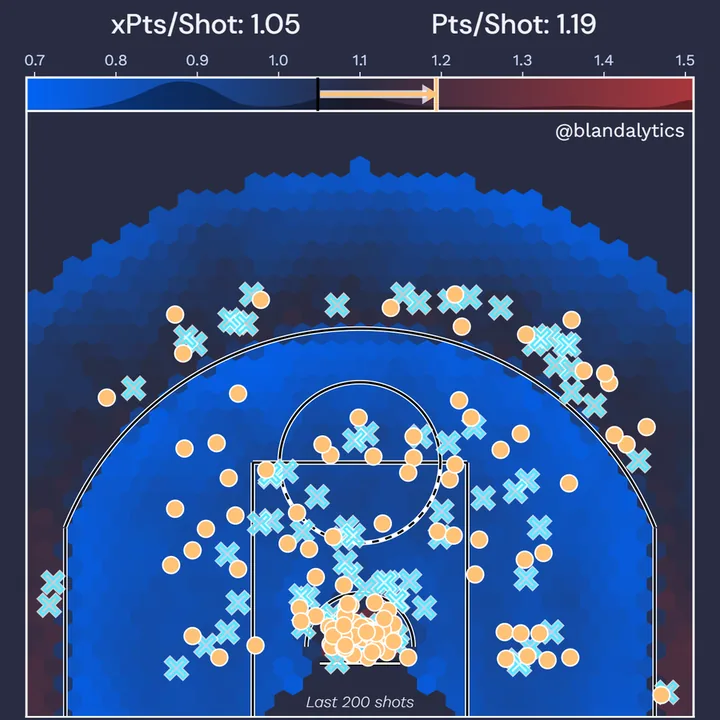
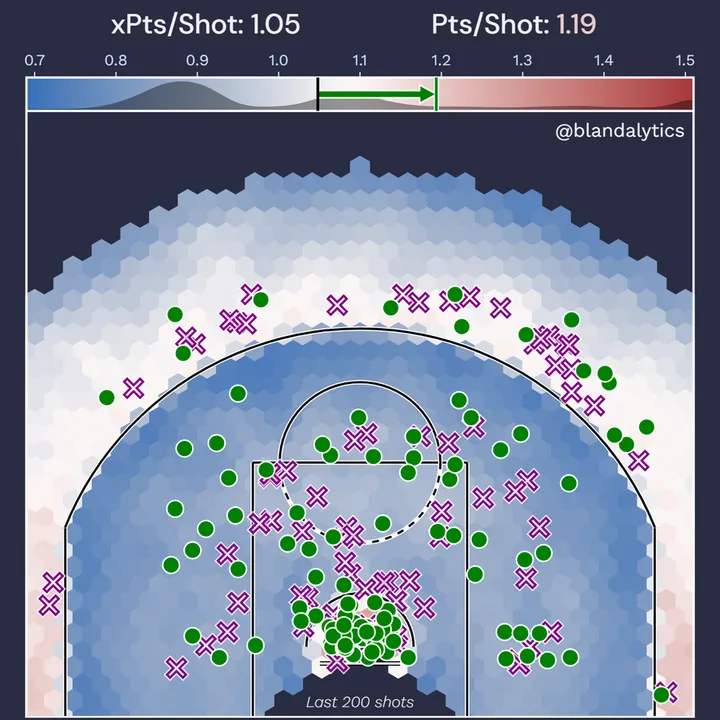
NBA Shot Charts: the app's own colours, an outlined arrow, rounded waterfall caps
The figures go back to the Streamlit app's colours: green makes and gains, purple misses and
losses, the court and its scale in seaborn's vlag (the 256 colours xfg_grid.json carries, looked
up as matplotlib does), white value tags, and a purple-white-green value-added scatter. The
leaderboards drop their signed colours, as the app's tables have none. #296's colorbar placement
on the sidelines stays.

- The colorbar's arrow is one outlined shape (a white edge under its fill), its point on the
  Pts/Shot line's near edge.
- The xPts/Shot and Pts/Shot values take the scale's colour at their value.
- Waterfall bars are rounded where they end and square where they start, as Model Drilldown's are.

figure.js and app.js go to v3 and scatter.js to v2; the homepage tile is regrabbed (?v=3).

diff --git a/nba-shot-charts/figure.js b/nba-shot-charts/figure.js
@@ -1,35 +1,30 @@
 // NBA Shot Charts: the app's scoring summary figure (shot_summary() in nba_shot_chart.py),
 // drawn on a canvas in the figure's own 1400 x 800 layout (the app's 14 x 8 in at 100 dpi),
-// in PLPD colours: amber where a player added points, cyan where they gave some back, the
-// xPTS court in the heat cell's blue and red, through the figure's background at the league average.
+// in the app's colours: green where a player made shots and added points, purple where they
+// missed and gave some back, the xPTS court in seaborn's vlag.
 
 import { SEASON_SHOT_LIMIT, density } from "./model.js?v=1";
 
 export const W = 1400, H = 800;
 
 const C = {
-  bg: "#292c42", ink: "#f0f1f5", nav: "#cbd7fd", amber: "#ffc277", cyan: "#55e8ff", navy: "#13152a",
+  bg: "#292c42", ink: "#f0f1f5", nav: "#cbd7fd",
+  green: "#008000", purple: "#800080",   // matplotlib's "green" and "purple", as the app names them
   line: "#000000", outline: "#ffffff",
 };
 const DISPLAY = '"DM Sans", system-ui, sans-serif';
 const TEXT = '"Work Sans", system-ui, sans-serif';
 
-// the PLPD heat cell's coldest and hottest, through the figure's background (not white) at the
-// midpoint, so an average spot sinks into the card; read continuously over the app's CenteredNorm(1.09, 0.42)
-const HEAT = ["#0066ff", C.bg, "#a9363b"].map(hex);
+// The app's cmap="vlag" over its CenteredNorm(1.09, 0.42): xfg_grid.json carries the 256 colours,
+// looked up as matplotlib does (no blending between them)
 const NORM = { lo: 1.09 - 0.42, hi: 1.09 + 0.42 };
 const BAR = { lo: 0.69, hi: 1.51 };   // the colorbar's span, cb.ax.set(xlim=(0.69, 1.51))
 
-function hex(h) {
-  const n = parseInt(h.slice(1), 16);
-  return [(n >> 16) & 255, (n >> 8) & 255, n & 255];
-}
-
-export function heat(v) {
-  const t = Math.min(Math.max((v - NORM.lo) / (NORM.hi - NORM.lo), 0), 1) * (HEAT.length - 1);
-  const i = Math.min(Math.floor(t), HEAT.length - 2), f = t - i;
-  const [a, b] = [HEAT[i], HEAT[i + 1]];
-  return `rgb(${a.map((x, k) => Math.round(x + (b[k] - x) * f)).join(",")})`;
+function colormap(cmap) {
+  return (v) => {
+    const t = (v - NORM.lo) / (NORM.hi - NORM.lo);
+    return cmap[Math.min(cmap.length - 1, Math.max(0, Math.floor(t * cmap.length)))];
+  };
 }
 
 // ---- layout ------------------------------------------------------------------------------
@@ -62,8 +57,9 @@ export function draw(canvas, sum, grid, { scale = 2, title } = {}) {
   ctx.fillRect(0, 0, W, H);
 
   text(ctx, title, W * 0.51, 46, { font: `700 33px ${DISPLAY}`, align: "center" });
-  court(ctx, sum, grid);
-  colorbar(ctx, sum);
+  const heat = colormap(grid.cmap);
+  court(ctx, sum, grid, heat);
+  colorbar(ctx, sum, heat);
   waterfall(ctx, sum);
 }
 
@@ -75,7 +71,7 @@ function text(ctx, s, x, y, { font = `400 17px ${TEXT}`, color = C.ink, align = 
   ctx.fillText(s, x, y);
 }
 
-function court(ctx, sum, grid) {
+function court(ctx, sum, grid, heat) {
   ctx.save();
   ctx.beginPath();
   ctx.rect(COURT.x0, COURT.top, COURT.w, COURT.h);
@@ -157,7 +153,7 @@ function courtLines(ctx) {
   ctx.setLineDash([]);
 }
 
-// misses as an open X (white under cyan), makes as an amber dot with a white edge
+// misses as an open X (white under purple), makes as a green dot with a white edge
 function shots(ctx, marked) {
   const xPath = (x, y, r) => {
     const t = r * 0.32;   // matplotlib's "X": a filled cross, drawn here by its outline
@@ -171,18 +167,18 @@ function shots(ctx, marked) {
     if (s.made) continue;
     xPath(cx(s.x), cy(s.y), 8.5);
     ctx.globalAlpha = 0.75; ctx.strokeStyle = C.outline; ctx.lineWidth = 4.5; ctx.stroke();
-    ctx.globalAlpha = 1; ctx.strokeStyle = C.cyan; ctx.lineWidth = 2; ctx.stroke();
+    ctx.globalAlpha = 1; ctx.strokeStyle = C.purple; ctx.lineWidth = 2; ctx.stroke();
   }
   for (const s of marked) {
     if (!s.made) continue;
     ctx.beginPath();
     ctx.arc(cx(s.x), cy(s.y), 7.5, 0, Math.PI * 2);
-    ctx.fillStyle = C.amber; ctx.fill();
+    ctx.fillStyle = C.green; ctx.fill();
     ctx.strokeStyle = C.outline; ctx.lineWidth = 1.4; ctx.stroke();
   }
 }
 
-function colorbar(ctx, sum) {
+function colorbar(ctx, sum, heat) {
   const { top, h } = CB;
   for (let px = 0; px < CB.w; px++) {
     ctx.fillStyle = heat(BAR.lo + ((px + 0.5) / CB.w) * (BAR.hi - BAR.lo));
@@ -216,38 +212,60 @@ function colorbar(ctx, sum) {
   const { expected, actual } = sum;
   const clip = (v) => Math.min(Math.max(v, BAR.lo), BAR.hi);
   const up = actual - expected >= 0;
-  const tone = up ? C.amber : C.cyan;
+  const tone = up ? C.green : C.purple;
   const vline = (v, color, width) => {
     if (!Number.isFinite(v) || v < BAR.lo || v > BAR.hi) return;
     ctx.strokeStyle = color; ctx.lineWidth = width;
     ctx.beginPath(); ctx.moveTo(cbx(v), top); ctx.lineTo(cbx(v), top + h); ctx.stroke();
   };
+  // the arrow from xPts/Shot to Pts/Shot: a white outline, then the line, then the arrow's fill, so
+  // its point ends on the coloured line's near edge
+  const ACTUAL_W = 2.5;
+  const shaft = Math.abs(actual - expected) >= 0.025 && Number.isFinite(actual) && Number.isFinite(expected)
+    ? arrowPath(cbx(clip(expected)), cbx(clip(actual)) - (up ? 1 : -1) * ACTUAL_W / 2, top + h / 2)
+    : null;
+  if (shaft) {
+    ctx.lineJoin = "miter";
+    ctx.strokeStyle = C.outline; ctx.lineWidth = 3;
+    ctx.stroke(shaft);
+  }
   vline(actual, C.outline, 4.5);
-  vline(actual, tone, 2.5);
-  if (Math.abs(actual - expected) >= 0.025) {
-    const x1 = cbx(clip(expected)), x2 = cbx(clip(up ? actual + 0.0025 : actual - 0.0025)), y = top + h / 2;
-    arrow(ctx, x1, x2, y, "rgba(255,255,255,.75)", 7, 9);
-    arrow(ctx, x1, x2, y, tone, 3.5, 6);
+  vline(actual, tone, ACTUAL_W);
+  if (shaft) {
+    ctx.fillStyle = tone;
+    ctx.fill(shaft);
   }
   vline(expected, C.line, 2.5);
 
-  const label = (v) => (Number.isFinite(v) ? v.toFixed(2) : "–");
-  text(ctx, `xPts/Shot: ${label(expected)}`, COURT.x0 + COURT.w * 0.27, top - 46, { font: `500 25px ${DISPLAY}`, align: "center" });
-  text(ctx, `Pts/Shot: ${label(actual)}`, COURT.x0 + COURT.w * 0.73, top - 46, { font: `500 25px ${DISPLAY}`, align: "center" });
+  // each value in the scale's colour at that value, its label in white, the pair centred together
+  const label = (name, v, x) => {
+    const font = `500 25px ${DISPLAY}`;
+    const value = Number.isFinite(v) ? v.toFixed(2) : "–";
+    ctx.font = font;
+    const a = ctx.measureText(`${name}: `).width, b = ctx.measureText(value).width;
+    text(ctx, `${name}: `, x - (a + b) / 2, top - 46, { font });
+    text(ctx, value, x - (a + b) / 2 + a, top - 46, { font, color: Number.isFinite(v) ? heat(clip(v)) : C.ink });
+  };
+  label("xPts/Shot", expected, COURT.x0 + COURT.w * 0.27);
+  label("Pts/Shot", actual, COURT.x0 + COURT.w * 0.73);
 }
 
-function arrow(ctx, x1, x2, y, color, width, head) {
+// one outline for the shaft and head, from x1 to the point at x2
+function arrowPath(x1, x2, y) {
   const dir = Math.sign(x2 - x1) || 1;
-  ctx.strokeStyle = ctx.fillStyle = color;
-  ctx.lineWidth = width;
-  ctx.lineCap = "butt";
-  ctx.beginPath(); ctx.moveTo(x1 + dir * 2, y); ctx.lineTo(x2 - dir * head * 1.2, y); ctx.stroke();
-  ctx.beginPath();
-  ctx.moveTo(x2, y);
-  ctx.lineTo(x2 - dir * head * 1.6, y - head);
-  ctx.lineTo(x2 - dir * head * 1.6, y + head);
-  ctx.closePath();
-  ctx.fill();
+  const half = 2.5, head = 7;
+  const len = Math.min(13, Math.abs(x2 - x1) * 0.6);   // a short arrow keeps some shaft
+  const neck = x2 - dir * len;
+  const p = new Path2D();
+  p.moveTo(x1, y - half);
+  p.lineTo(neck, y - half);
+  p.lineTo(neck, y - head);
+  p.lineTo(x2, y);
+  p.lineTo(neck, y + head);
+  p.lineTo(neck, y + half);
+  p.lineTo(x1, y + half);
+  p.closePath();
+  return p;
 }
 
 function waterfall(ctx, sum) {
@@ -266,10 +284,9 @@ function waterfall(ctx, sum) {
   ctx.beginPath(); ctx.moveTo(fx(2.5), fy(0)); ctx.lineTo(fx(2.5), fy(ymax * 0.95)); ctx.stroke();
 
   values.forEach((v, i) => {
-    const tone = v >= 0 ? C.amber : C.cyan;
-    const top = fy(cum[i]), bottom = fy(cum[i] - v);
-    ctx.fillStyle = tone;
-    ctx.fillRect(fx(i - 0.4), Math.min(top, bottom), fx(i + 0.4) - fx(i - 0.4), Math.max(Math.abs(bottom - top), 1));
+    const start = fy(cum[i] - v), end = fy(cum[i]);
+    ctx.fillStyle = v >= 0 ? C.green : C.purple;
+    ctx.fill(bar(fx(i - 0.4), fx(i + 0.4), start, end));
   });
   // dotted steps from each bar's top to the next
   ctx.strokeStyle = C.outline; ctx.lineWidth = 1.4; ctx.setLineDash([1.5, 1.5]);
@@ -282,7 +299,7 @@ function waterfall(ctx, sum) {
   ctx.beginPath(); ctx.moveTo(fx(-0.48), fy(total)); ctx.lineTo(fx(5.5), fy(total)); ctx.stroke();
 
   values.forEach((v, i) => {
-    const tone = v >= 0 ? C.amber : C.cyan;
+    const tone = v >= 0 ? C.green : C.purple;
     text(ctx, cats[i][0], fx(i), fy(max * 1.075) - 10, { font: `500 15px ${DISPLAY}`, align: "center" });
     text(ctx, cats[i][1], fx(i), fy(max * 1.075) + 10, { font: `500 15px ${DISPLAY}`, align: "center" });
     tag(ctx, `${v >= 0 ? "+" : "−"}${Math.abs(v).toFixed(1)}`, fx(i), fy(cum[i]), tone, sum.game == null ? 14 : 17);
@@ -294,13 +311,31 @@ function waterfall(ctx, sum) {
   text(ctx, "blandalytics.com", fx(4.1), FALL.bottom - 4, { font: `300 14px ${TEXT}`, align: "center", baseline: "bottom", color: C.nav });
 }
 
-// a value label: tone text in a background-coloured rounded box with a tone edge, so it reads in the bar's colour
+// A waterfall bar as Model Drilldown draws them (charts.js bar()): square where it starts (the
+// running total before it) and rounded where it ends, on top for a gain and underneath for a loss
+const BAR_R = 9;
+function bar(x0, x1, start, end) {
+  if (Math.abs(end - start) < 1) end = start + (end < start ? -1 : 1);
+  const r = Math.min(BAR_R, (x1 - x0) / 2, Math.abs(end - start));
+  const d = end < start ? 1 : -1;   // from the end's edge back toward the start (canvas y runs down)
+  const p = new Path2D();
+  p.moveTo(x0, start);
+  p.lineTo(x0, end + d * r);
+  p.quadraticCurveTo(x0, end, x0 + r, end);
+  p.lineTo(x1 - r, end);
+  p.quadraticCurveTo(x1, end, x1, end + d * r);
+  p.lineTo(x1, start);
+  p.closePath();
+  return p;
+}
+
+// a value label, as the app draws it: tone text in a white rounded box with a tone edge
 function tag(ctx, s, x, y, tone, size) {
   ctx.font = `600 ${size}px ${TEXT}`;
   const w = ctx.measureText(s).width + 14, h = size + 10;
   ctx.beginPath();
   ctx.roundRect(x - w / 2, y - h / 2, w, h, 6);
-  ctx.fillStyle = C.bg; ctx.fill();
+  ctx.fillStyle = "#ffffff"; ctx.fill();
   ctx.strokeStyle = tone; ctx.lineWidth = 1.5; ctx.stroke();
   text(ctx, s, x, y + 0.5, { font: `600 ${size}px ${TEXT}`, align: "center", color: tone });
 }

diff --git a/nba-shot-charts/app.js b/nba-shot-charts/app.js
@@ -5,8 +5,8 @@
 // A chart is linkable as #<season>/<player id>/<game id | season>.
 
 import { prepare, defaultPick, summary, seasonBoard, gameBoard, valueAdded, teamMinutes } from "./model.js?v=1";
-import { draw } from "./figure.js?v=2";
-import { drawScatter } from "./scatter.js?v=1";
+import { draw } from "./figure.js?v=3";
+import { drawScatter } from "./scatter.js?v=2";
 
 const params = new URLSearchParams(location.search);
 const DATA = new URL(params.get("data") || "https://data.blandalytics.com/", location.href).href;
@@ -219,12 +219,12 @@ viewChips.forEach((b) => b.addEventListener("click", () => {
 // ---- leaderboards ------------------------------------------------------------------------
 
 const SEASON_COLS = {
-  // [key, header, decimals, signed: amber above zero, cyan below]
-  total: [["games", "G", 0], ["pts", "Pts", 0], ["fga", "FGA", 0], ["vol", "Vol Pts", 1], ["qual", "Qual Pts", 1, true],
-    ["make", "Make Pts", 1, true], ["fgPts", "FG Pts", 0], ["xfta", "xFTA Pts", 1], ["ftDraw", "FT Draw Pts", 1, true],
-    ["ftMake", "FT Make Pts", 1, true], ["ftPts", "FT Pts", 0]],
-  per: [["fga", "FGA", 0], ["pts", "Pts", 2], ["qual", "Qual Pts", 2, true], ["make", "Make Pts", 2, true],
-    ["xfta", "xFTA Pts", 2], ["ftDraw", "FT Draw Pts", 2, true]],
+  // [key, header, decimals]
+  total: [["games", "G", 0], ["pts", "Pts", 0], ["fga", "FGA", 0], ["vol", "Vol Pts", 1], ["qual", "Qual Pts", 1],
+    ["make", "Make Pts", 1], ["fgPts", "FG Pts", 0], ["xfta", "xFTA Pts", 1], ["ftDraw", "FT Draw Pts", 1],
+    ["ftMake", "FT Make Pts", 1], ["ftPts", "FT Pts", 0]],
+  per: [["fga", "FGA", 0], ["pts", "Pts", 2], ["qual", "Qual Pts", 2], ["make", "Make Pts", 2],
+    ["xfta", "xFTA Pts", 2], ["ftDraw", "FT Draw Pts", 2]],
 };
 const GAME_COLS = {
   total: SEASON_COLS.total.slice(1),
@@ -247,11 +247,7 @@ function board(rows, cols, which, nameCell) {
     const sorted = sort.key === k ? ` aria-sort="${sort.dir < 0 ? "descending" : "ascending"}"` : "";
     return `<th scope="col" class="${cls}"${sorted}><button type="button" data-sort="${k}">${label}</button></th>`;
   };
-  const cell = (r, [k, , d, signed]) => {
-    const v = r[k];
-    const cls = signed && Number.isFinite(v) ? (Math.abs(v) < 0.05 / 10 ** (d - 1) ? "zero" : v > 0 ? "up" : "down") : "";
-    return `<td class="${cls}">${d === 0 ? Math.round(v).toLocaleString() : num(v, d)}</td>`;
-  };
+  const cell = (r, [k, , d]) => `<td>${d === 0 ? Math.round(r[k]).toLocaleString() : num(r[k], d)}</td>`;
   return `<table class="plpd-table"><caption>${which === "game" ? "Game" : "Season"} leaderboard</caption>
     <thead><tr>${head("name", which === "game" ? "Player · Game" : "Player", "name left")}${cols.map(([k, l]) => head(k, l)).join("")}</tr></thead>
     <tbody>${shown.map((r) => `<tr><td class="name">${nameCell(r)}</td>${cols.map((c) => cell(r, c)).join("")}</tr>`).join("")}</tbody></table>`;

diff --git a/nba-shot-charts/index.html b/nba-shot-charts/index.html
@@ -79,9 +79,6 @@
 .plpd-table td.name button:hover{color:var(--brand-brand-cyan); text-decoration-color:currentColor}
 .plpd-table td.name button:focus-visible{outline:2px solid var(--brand-brand-cyan); outline-offset:2px}
 .plpd-table td.name small{display:block; margin-top:3px; font-size:13px; font-weight:400; color:var(--text-text-nav)}
-.plpd-table td.zero{color:var(--data-table-pl-data-table-cell-zero)}
-.plpd-table td.up{color:var(--brand-brand-amber)}
-.plpd-table td.down{color:var(--brand-brand-cyan)}
 
 /* team minutes: one team, or every team by conference and division */
 .minutes{display:flex; flex-direction:column; gap:24px}
@@ -111,7 +108,7 @@ p{text-wrap:pretty}
 
   <section class="plpd-pane" aria-labelledby="chart_title">
     <h2 class="plpd-pane__title" id="chart_title">Scoring Chart</h2>
-    <p class="plpd-pane__desc">How a player scored, or didn't, in one game or across the season. Points come from shot volume (the average shot is worth 1.09 points), shot quality (expected points per shot above or below that), shot making (points above expected), free throws a player's shots should earn (about 0.78 points per attempt), free throws drawn beyond that, and free throws made. Amber marks makes and points added; cyan marks misses and points given back. The court is shaded by each spot's expected points per shot, and the bar above it shows the player's spread of shots across that scale.</p>
+    <p class="plpd-pane__desc">How a player scored, or didn't, in one game or across the season. Points come from shot volume (the average shot is worth 1.09 points), shot quality (expected points per shot above or below that), shot making (points above expected), free throws a player's shots should earn (about 0.78 points per attempt), free throws drawn beyond that, and free throws made. Green marks makes and points added; purple marks misses and points given back. The court is shaded by each spot's expected points per shot, and the bar above it shows the player's spread of shots across that scale.</p>
     <div class="controls">
       <label class="plpd-filter-field"><span class="plpd-filter-field__label">Season</span>
         <select id="season" class="plpd-filter-dropdown" disabled></select></label>
@@ -195,6 +192,6 @@ p{text-wrap:pretty}
   </section>
 </div>
 <script src="/shared/share-image.js?v=2"></script>
-<script type="module" src="app.js?v=2"></script>
+<script type="module" src="app.js?v=3"></script>
 </body>
 </html>

diff --git a/nba-shot-charts/scatter.js b/nba-shot-charts/scatter.js
@@ -2,7 +2,7 @@
 // Shot making across, shot quality up; each dashed diagonal is one more standard deviation
 // of points added, the solid one through the average.
 
-const C = { bg: "#292c42", ink: "#f0f1f5", nav: "#cbd7fd", axis: "#cbd7fd", amber: [255, 194, 119], cyan: [85, 232, 255] };
+const C = { bg: "#292c42", ink: "#f0f1f5", nav: "#cbd7fd", axis: "#cbd7fd", green: [0, 128, 0], purple: [128, 0, 128] };
 const DISPLAY = '"DM Sans", system-ui, sans-serif';
 const TEXT = '"Work Sans", system-ui, sans-serif';
 
@@ -44,12 +44,12 @@ export function drawScatter(canvas, va, { scale = 2 } = {}) {
   diagonal(0, "#ffffff", []);
   ctx.setLineDash([]);
 
-  // purple-white-green in the app; cyan-white-amber here, white at zero points added
+  // the app's colorscale: purple, white at zero points added, green
   const lo = Math.min(...added), hi = Math.max(...added);
   const white = hi > lo ? -lo / (hi - lo) : 0.5;
   const tone = (v) => {
     const t = hi > lo ? (v - lo) / (hi - lo) : 0.5;
-    const [a, b, f] = t < white ? [C.cyan, [255, 255, 255], t / white] : [[255, 255, 255], C.amber, (t - white) / (1 - white)];
+    const [a, b, f] = t < white ? [C.purple, [255, 255, 255], t / white] : [[255, 255, 255], C.green, (t - white) / (1 - white)];
     return `rgb(${a.map((x, i) => Math.round(x + (b[i] - x) * (Number.isFinite(f) ? f : 0))).join(",")})`;
   };
   const points = rows.map((r) => ({ row: r, x: px(r.make), y: py(r.qual) }));

diff --git a/index.html b/index.html
@@ -284,7 +284,7 @@
 								<div class="tiles">
 									<article class="style2">
 									<span class="image">
-										<img src="images/tile-nba-shot-charts.webp?v=2" srcset="images/tile-nba-shot-charts-720.webp?v=2 720w, images/tile-nba-shot-charts.webp?v=2 900w" sizes="(max-width: 480px) 100vw, (max-width: 980px) 50vw, 380px" width="900" height="900" alt="NBA shot chart: makes and misses over a court shaded by expected points per shot" />
+										<img src="images/tile-nba-shot-charts.webp?v=3" srcset="images/tile-nba-shot-charts-720.webp?v=3 720w, images/tile-nba-shot-charts.webp?v=3 900w" sizes="(max-width: 480px) 100vw, (max-width: 980px) 50vw, 380px" width="900" height="900" alt="NBA shot chart: makes and misses over a court shaded by expected points per shot" />
 									</span>
 									<a href="/nba-shot-charts/">
 										<h2>NBA Shot Charts</h2>

diff --git a/README.md b/README.md
@@ -1499,7 +1499,8 @@ be loaded on the page itself, without deploying, through the *Projections* file 
 player scored in one game or across a season. It is the
 [nba-scoring-chart.streamlit.app](https://nba-scoring-chart.streamlit.app/) app
 ([Blandalytics/nba_shot_chart](https://github.com/Blandalytics/nba_shot_chart)) rebuilt for the
-browser on the PLPD design system: the scoring chart (the six-part points waterfall beside the
+browser on the PLPD design system, its figures in the app's own colours (green for makes and points
+added, purple for misses and points given back, the court in seaborn's `vlag`): the scoring chart (the six-part points waterfall beside the
 court, shaded by the xFG model's expected points per shot, with the shots and their xPTS spread
 on the scale above), the season and game leaderboards (totals or per shot, with the app's two
 minimum-shot sliders), Shot Value Added (shot quality against shot making for the top quarter
@@ -1510,9 +1511,6 @@ point opens that player or game in the chart. **Share image** exports the chart 
 
 It departs from the app in a few places, all deliberate:
 
-- **PLPD colours.** Amber marks makes and points added, cyan misses and points given back (the
-  app's green and purple); the court and its scale use the heat cell's blue-white-red over the
-  app's `CenteredNorm(1.09, 0.42)` instead of seaborn's `vlag`.
 - **Every player.** The app keeps players on `nba_api`'s bundled active list, which lags the
   season (rookies and since-retired players missing, some names spelled differently from the
   stats API, which breaks its name-to-id lookup). Here everyone who logged a game is listed,
